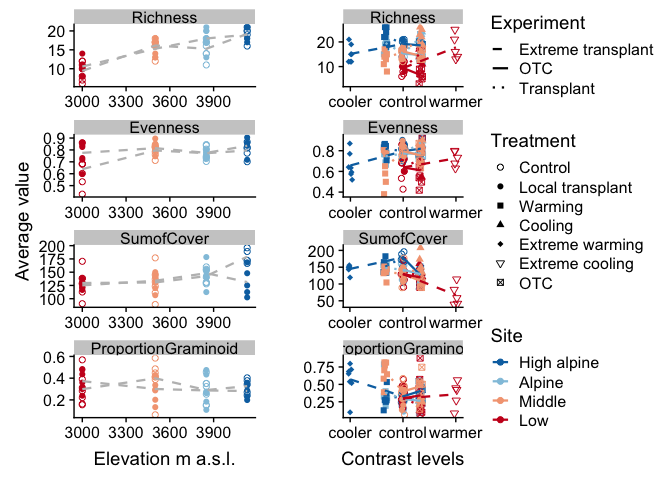
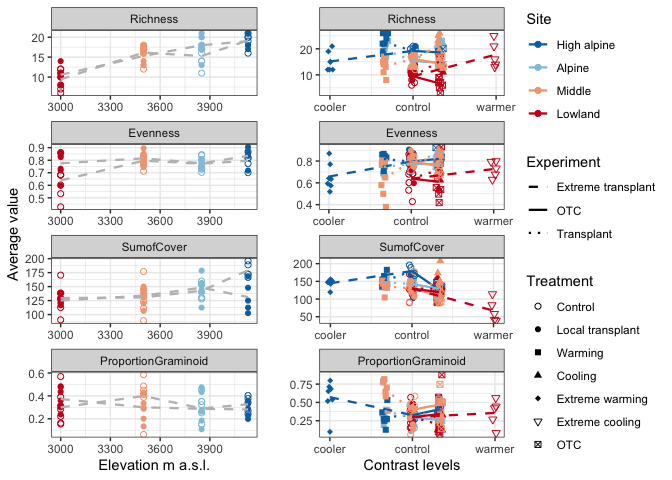
adding climate data

Changed region(s): [[0.4375, 0.0, 0.9688, 1.0], [0.0, 0.0, 0.4062, 1.0]]

diff --git a/ReadMe.md b/ReadMe.md
@@ -14,7 +14,15 @@ The transplant study is located in the Gongga Mountains in Sichuan Province, sou
 | Middle         |       3500|  29.86192|   102.0360|
 | Lowland        |       3000|  29.84347|   102.0343|
 
-<img src="./map/TransplantMap.png" width="60%" />
+<img src="./map/TransplantMap.png" alt="Location of the four study sites along an elevational gradient. Inset indicates the locations of the study sites in China." width="60%" />
+<p class="caption">
+Location of the four study sites along an elevational gradient. Inset indicates the locations of the study sites in China.
+</p>
+
+<img src="./map/ChinaMountain.jpg" alt="Experimental set up fo rht different warming treatments at each site. Shown are control, local control, OTC, and transplant and arrows indicate direction of transplant" width="60%" />
+<p class="caption">
+Experimental set up fo rht different warming treatments at each site. Shown are control, local control, OTC, and transplant and arrows indicate direction of transplant
+</p>
 
 The experimental set-up
 -----------------------
@@ -96,9 +104,9 @@ Leaf Dry Matter Content LDMC was measured with the dry mass divided by the wet m
 
 ##### Traits Distributions and Values
 
-![](ReadMe_files/figure-markdown_github/TraitDistribution-1.png)
+![Distributions of trait data from all sampled leaves from the four sites along the 1000 altitudinal gradient in Mt Gongga, Sichuan, China.](ReadMe_files/figure-markdown_github/TraitDistribution-1.png)
 
-![](ReadMe_files/figure-markdown_github/TraitsPlots-1.png)
+![Biplots of some of the trait measurements and traits from the four sites along the 1000 altitudinal gradient in Mt Gongga, Sichuan, China.](ReadMe_files/figure-markdown_github/TraitsPlots-1.png)
 
 ##### Data processing and cleaning
 
@@ -149,7 +157,7 @@ Over the years of collecting this extensive data set, different people were invo
 
 ##### Diversity along elevational gradient
 
-![](ReadMe_files/figure-markdown_github/DiversityPlot-1.png)
+![Figure 3 Change in species richness, evenness, sum of covers, and proportion of graminoids along the elevation gradient (left hand plots), and in OTCs and transplants (right hand plots). The treatments are expressed as contrasts from controls, moderate and extreme cooling and warming (one or three ‘steps’ to the left and right of the control level), respectively. Different colours indicate the sites, High alpine, Alpine, Middle and Lowland, and symbols show the treatments; control, local transplant, OTC and extreme transplant. Gradients are indicated by grey lines and experiments by lines coloured by origin site. OTCs are indicated by solid lines, extreme transplants by stapled lines, and moderate cooling an warming transplants by dotted lines.](ReadMe_files/figure-markdown_github/DiversityPlot-1.png)
 
 #### Biomass
 
@@ -165,6 +173,29 @@ Script: biomass.R
 -   Can we trust the graminoid species or should these be merged?
 -   There are 2 plots that contain &gt; 20% seedlings (impossible!)
 -   a couple of seedlings are huge
+
+#### Climate data
+
+-   There is a climate station at each transplant site along the gradients recording air temperature at 2m (°C Tair). Data are recorded (usually) every 10 minutes and there are data from 2013-2016 in the database.
+-   Air (30 cm), ground (0 cm) and soil temperature (-5 cm) from iButtions in summer 2017. This data was recorded inside the OTC and outside.
+-   Air (15 cm), ground (0 cm) and soil temperature (-6 cm) and volumetirc soil moisture from Tomst loggers from September 2019 onwards.
+
+Data processing
+---------------
+
+The data was provided in excel or csv files. The data was checked visually for outliers. Outliers and unrealistic values were removed.
+
+    #> NULL
+
+![Air temperature in °C from 2013 - 2016 in each site along the elevational gradient.](ReadMe_files/figure-markdown_github/AirTempPlot-1.png)
+
+    #> NULL
+
+![Max, mean and min monthly air temperature in °C in the four summer month of 2017 in each site along the elevational gradient. The colour indicate the different warming treatments.](ReadMe_files/figure-markdown_github/iButtonPlot-1.png)
+
+    #> NULL
+
+![Mean monthly air, ground and soil temperature in °C in autumne 2019 at the High alpine site. The colour indicate the different warming treatments.](ReadMe_files/figure-markdown_github/TomstOTCPlot-1.png)
 
 #### TRAIT PLASTICITY DATA AND ANALYSIS
 
